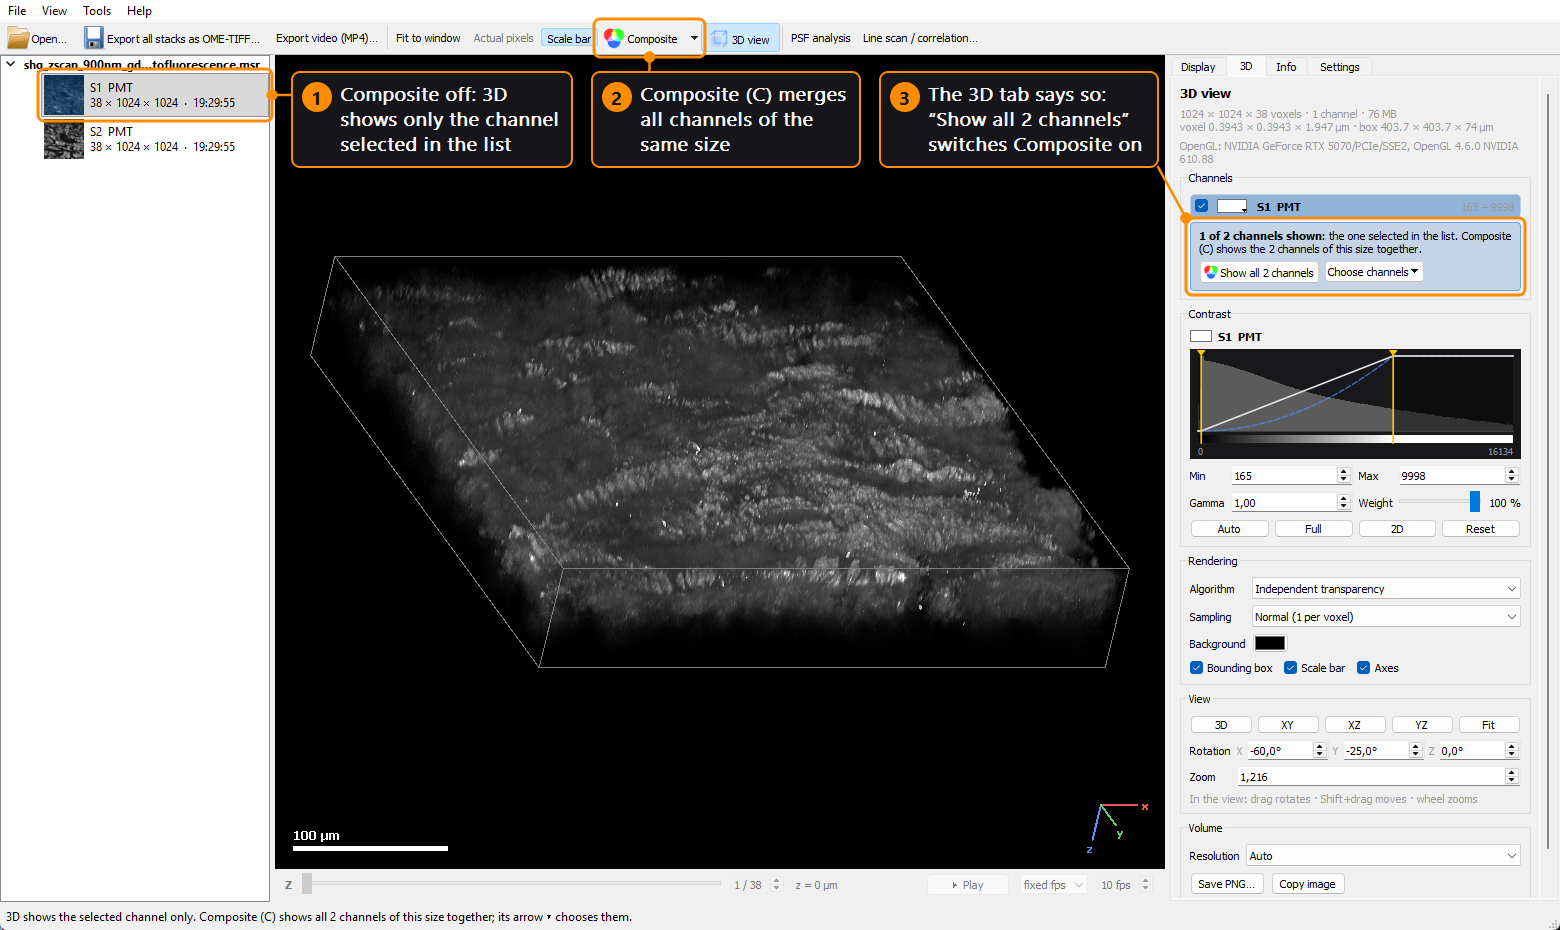
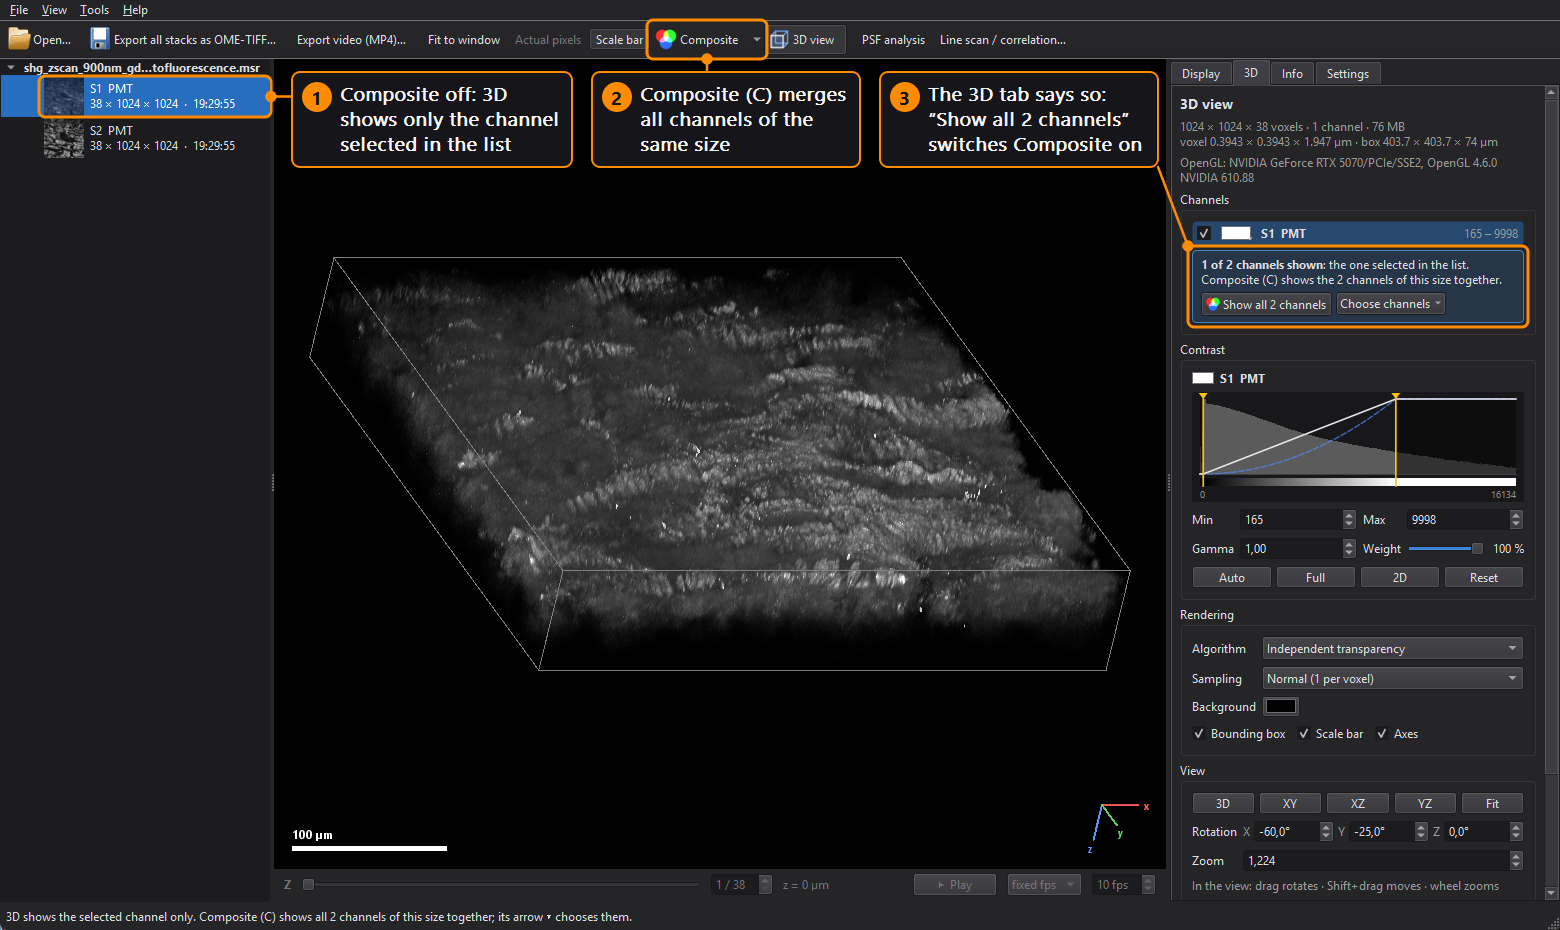
README: line scan screenshot; screenshots in the app's dark theme
- docs/linescan.png: Tools > Line scan / correlation on a 170 nm bead
  z-stack (mean projection, +/- 6 px), with numbered callouts. The README
  paragraph now names the menu entry and Ctrl+Shift+L, the frame modes and
  what Save plot / Export CSV / Save image write.
- The four composite / 3D screenshots re-taken with the QApplication set up
  as msr_viewer.main() does it (dark Fusion palette, Segoe UI 9 pt); the
  earlier ones showed a light Windows look the app does not have.
- Align to first stack tooltip and module docstring: cross-correlation, not
  phase correlation (as the code and the README say).

diff --git a/msr_linescan.py b/msr_linescan.py
@@ -6,7 +6,7 @@ repeated acquisitions, ...).  A separate window shows them as composite or one
 by one; the line ROI gives the intensity profile of every stack along it
 (averaged over a band of parallel lines), and the Pearson correlation between
 the stacks along the line and over the whole image.  Stacks can be aligned to
-the first one by phase correlation (sub-pixel).  Timelapses and z-stacks are
+the first one by cross-correlation (sub-pixel).  Timelapses and z-stacks are
 scanned per frame or as mean / maximum projection.
 
 Concepts ported from OME-Tiff-PSF-Evaluator-V2/multichannel_linescan_correlation_app.py.
@@ -366,7 +366,8 @@ class LineScanWindow(QtWidgets.QMainWindow):
         self.width_spin.setSuffix(" px")
         self.width_spin.setToolTip("Average the profile over parallel lines on both sides")
         self.align = QtWidgets.QCheckBox("Align to first stack")
-        self.align.setToolTip("Phase correlation (sub-pixel) of every stack against the first one, per image")
+        self.align.setToolTip("Cross-correlation (smoothed, Hann window, sub-pixel) of every stack against the "
+                              "first one, per image")
         self.align.setEnabled(len(self.channels) > 1)
         self.normalize = QtWidgets.QCheckBox("Normalize profiles")
         self.normalize.setToolTip("Divide each profile by its maximum")

diff --git a/README.md b/README.md
@@ -46,7 +46,7 @@ Bio-Formats rejects these files ("Unknown file format"), so this reads them dire
 - Pixel data is exported bit-exact, no rescaling
 - PSF analysis on demand (Tools ▸ PSF analysis): click a bead, get lateral x/y and (for z-stacks) axial
   widths at FWHM, 1/e or 1/e², from the threshold crossings and a Gaussian fit
-- Line scan / correlation on demand (Tools ▸ Line scan): pick stacks (also from different files), compare
+- Line scan / correlation on demand (Tools ▸ Line scan / correlation…): pick stacks (also from different files), compare
   their profiles along a line, Pearson r along the line and over the image, optional sub-pixel alignment;
   per frame or as mean / max projection; plot (PNG/PDF/SVG), CSV and image export
 - TIFF, OME-TIFF and ImageJ TIFF files open next to `.msr` files for the same viewing and analyses (PSF,
@@ -162,12 +162,18 @@ optionally averaged over parallel lines and rotated. Widths are measured above a
 a movable background box, or zero); for z-stacks the axial profile is the mean of a small box in every slice.
 Results can be copied or saved as CSV / PNG.
 
-Line scan / correlation first asks which stacks to compare (same X × Y size), then opens its own window: a
-composite (or one stack at a time) with a line whose ends and centre can be dragged, the profiles of all
-stacks along it (optionally averaged over a band and normalized), and Pearson r for every pair. *Align to
-first stack* registers each stack to the first one by cross-correlation of lightly smoothed, Hann-windowed
-images with sub-pixel refinement (within 0.02 px on synthetic shifts; plain phase correlation without a
-window can be off by pixels because of the image edges). Names and colours are editable in the table.
+Line scan / correlation (Tools ▸ Line scan / correlation…, Ctrl+Shift+L) first asks which stacks to compare
+(same X × Y size), then opens its own window: a composite (or one stack at a time) with a line whose ends and
+centre can be dragged, the profiles of all stacks along it (optionally averaged over a band and normalized),
+and Pearson r for every pair. *Align to first stack* registers each stack to the first one by
+cross-correlation of lightly smoothed, Hann-windowed images with sub-pixel refinement (within 0.02 px on
+synthetic shifts; plain phase correlation without a window can be off by pixels because of the image edges).
+Names and colours are editable in the table. Z-stacks and timelapses are scanned in one frame or in the mean
+or maximum projection of each stack. *Save plot…* writes PNG, PDF or SVG, *Export CSV…* the profiles with the
+line and the settings, *Save image…* the view with the line and a scale bar. Below, two 170 nm beads 3.9 µm
+apart in a z-stack of 101 planes with 17 nm pixels, scanned in the mean projection over ± 6 px:
+
+![Line scan through two 170 nm beads in the mean projection of a z-stack: the line with its averaging band, the profile in µm, and the controls](docs/linescan.png)
 
 TIFF files (`msr_tiff.py`): every channel of every image series becomes a stack, like the detectors of an
 `.msr`. Pixel size, z step, frame interval, per-frame times and channel names come from the OME-XML, the
